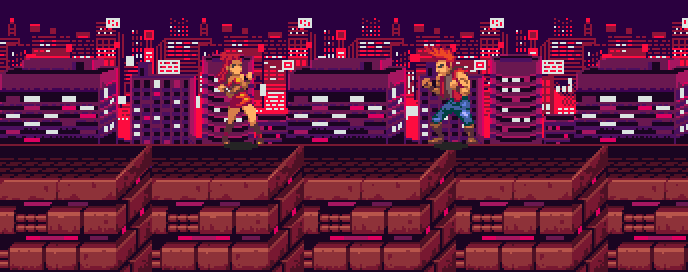
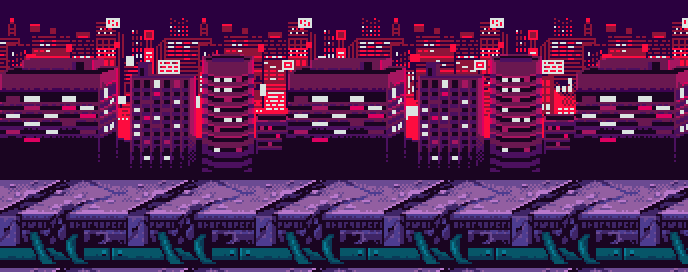
cenario 3: piso vem do tileset, nao da camada front

diff --git a/assets/LEIA-ME.md b/assets/LEIA-ME.md
@@ -77,13 +77,15 @@ Imagem única, sem camadas. Chão: **y = 230**
 |---|---|
 | `cenario/cenario3.png` | 688 × 272 |
 
-Imagem única. Chão: **y = 144**
+Imagem única. Chão: **y = 194**
+
+Montado com o céu e os prédios das camadas `back` e `middle`, mais uma
+passarela metálica tirada do tileset do pacote, repetida na horizontal.
 
 As camadas soltas estão em `cenario/cenario3/` (back 96×160, middle
-144×160, front 272×160), caso alguém queira fazer parallax depois. A
-camada `front` original é de jogo de plataforma e tem telhados em alturas
-diferentes — o trecho plano mais largo tem só 76 px. O `cenario3.png`
-pronto já resolve isso repetindo esse trecho na horizontal.
+144×160, front 272×160), caso alguém queira fazer parallax depois.
+A camada `front` NÃO é chão: são telhados de prédios vizinhos, cenário de
+fundo do pacote original de plataforma. Não use como piso.
 
 ## Trilhas
 
